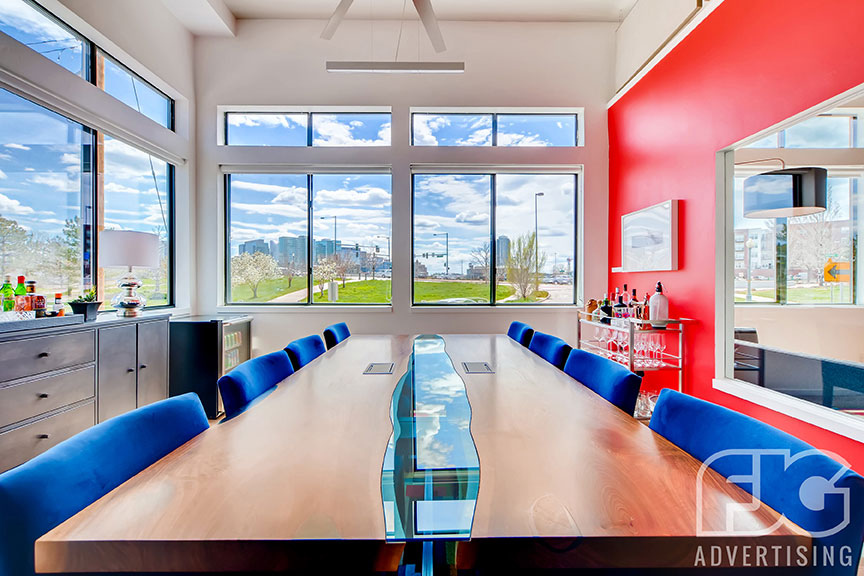
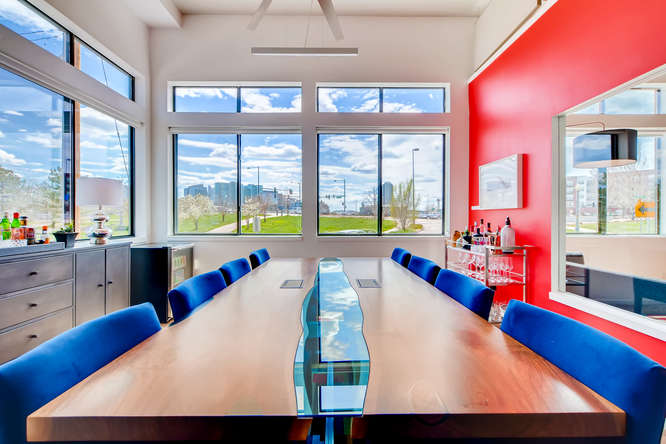
update office images

diff --git a/contact.html b/contact.html
@@ -263,7 +263,7 @@
                 <!-- Item 9 -->
                 <div class="col-md-4 portfolio-item webdesign">
                   <div class="p-wrapper hover-default">
-                    <!-- <img src="assets/images/stock-show.jpg" alt="FJG Offfice"> -->
+                    <img src="assets/images/office/office-9.jpg" alt="FJG Offfice">
                   </div>
                 </div><!-- / .portfolio-item -->
   
